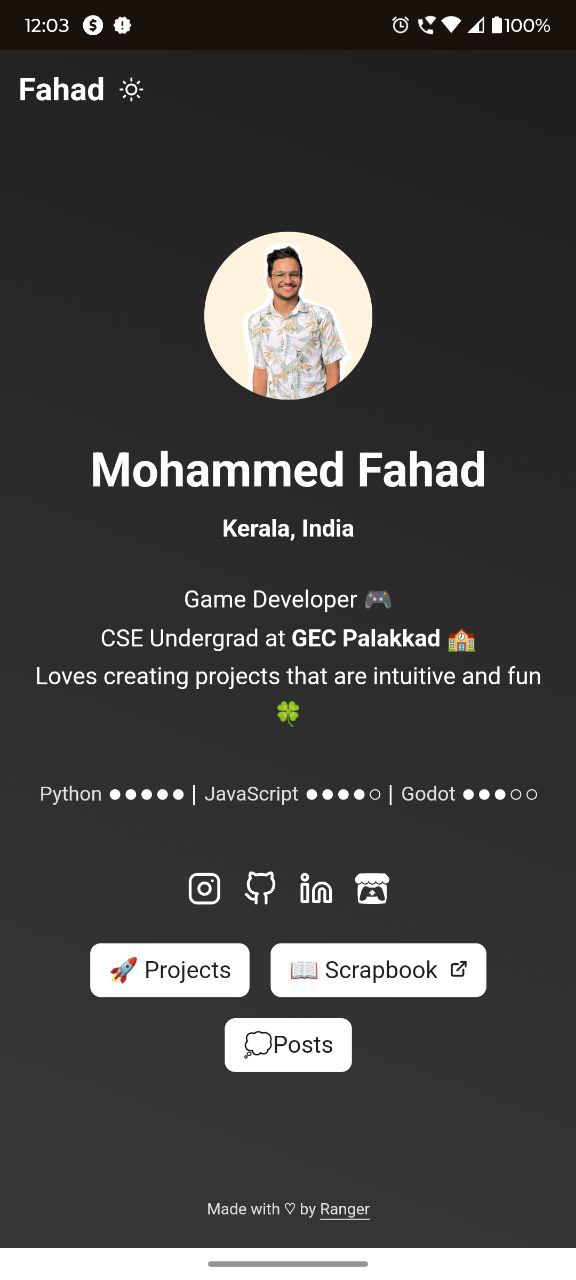
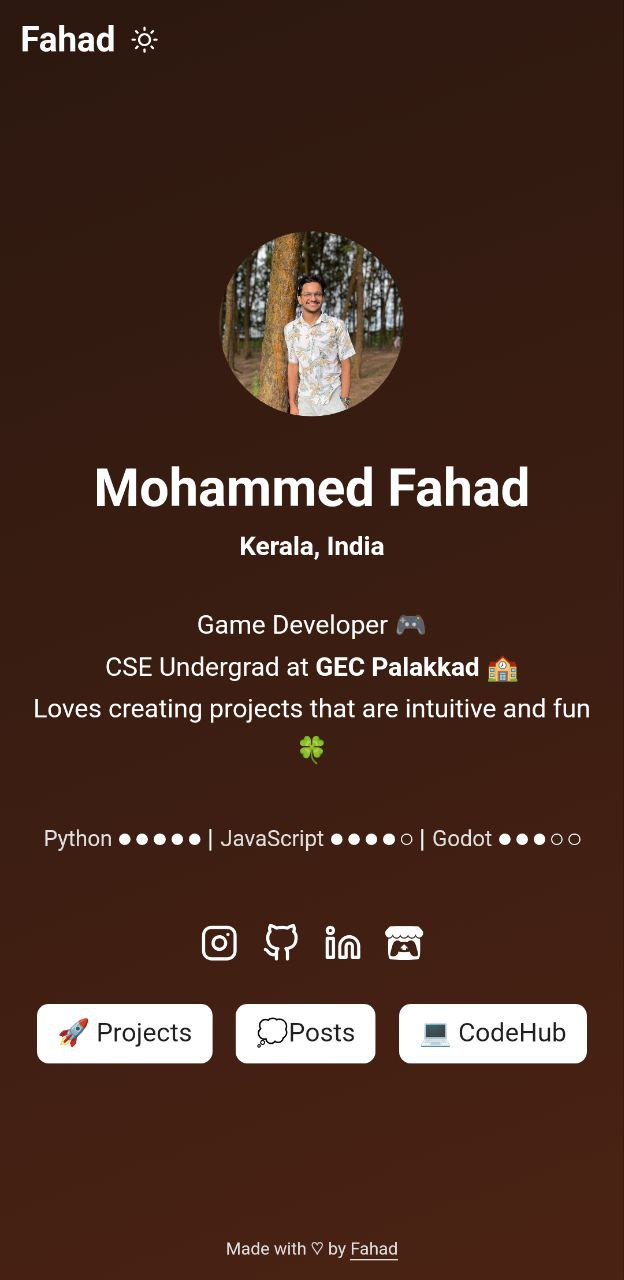
📸 Changed README screenshot

diff --git a/README.md b/README.md
@@ -14,7 +14,7 @@
     <img src="docs/home-light.jpg" width="auto" height="400">
     <img src="docs/home-dark.jpg" width="auto" height="400">
     <img src="docs/projects-light.jpg" width="auto" height="400">
-    <img src="docs/projects-dark.jpg" width="auto" height="400">
+    <img src="docs/codehub-dark.jpg" width="auto" height="400">
 </p>
 
 > 🏗 Made using [Hugo](https://gohugo.io/) and [PaperMod](https://github.com/adityatelange/hugo-PaperMod/)
